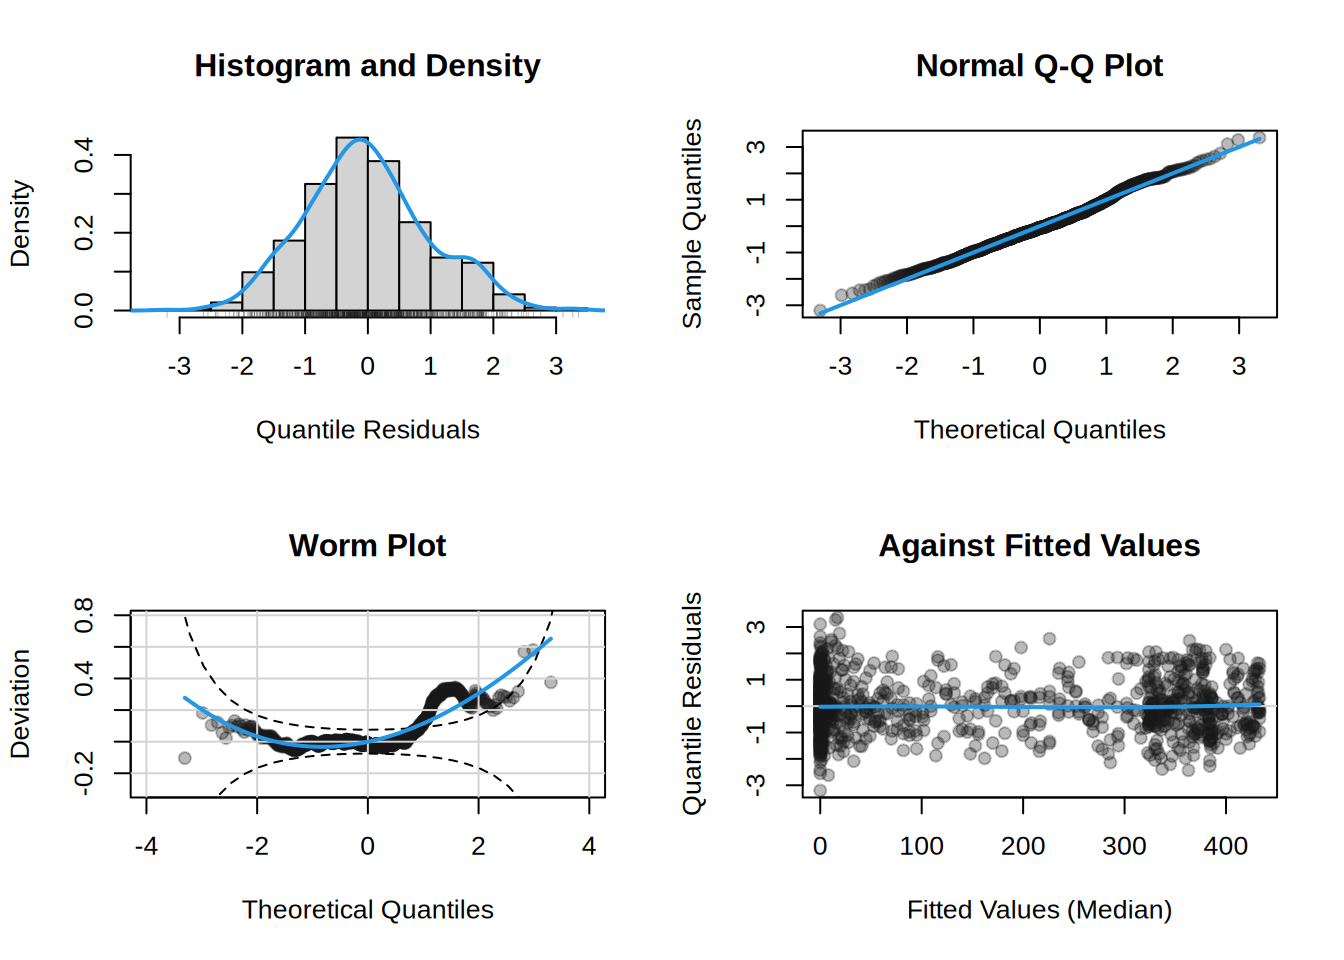
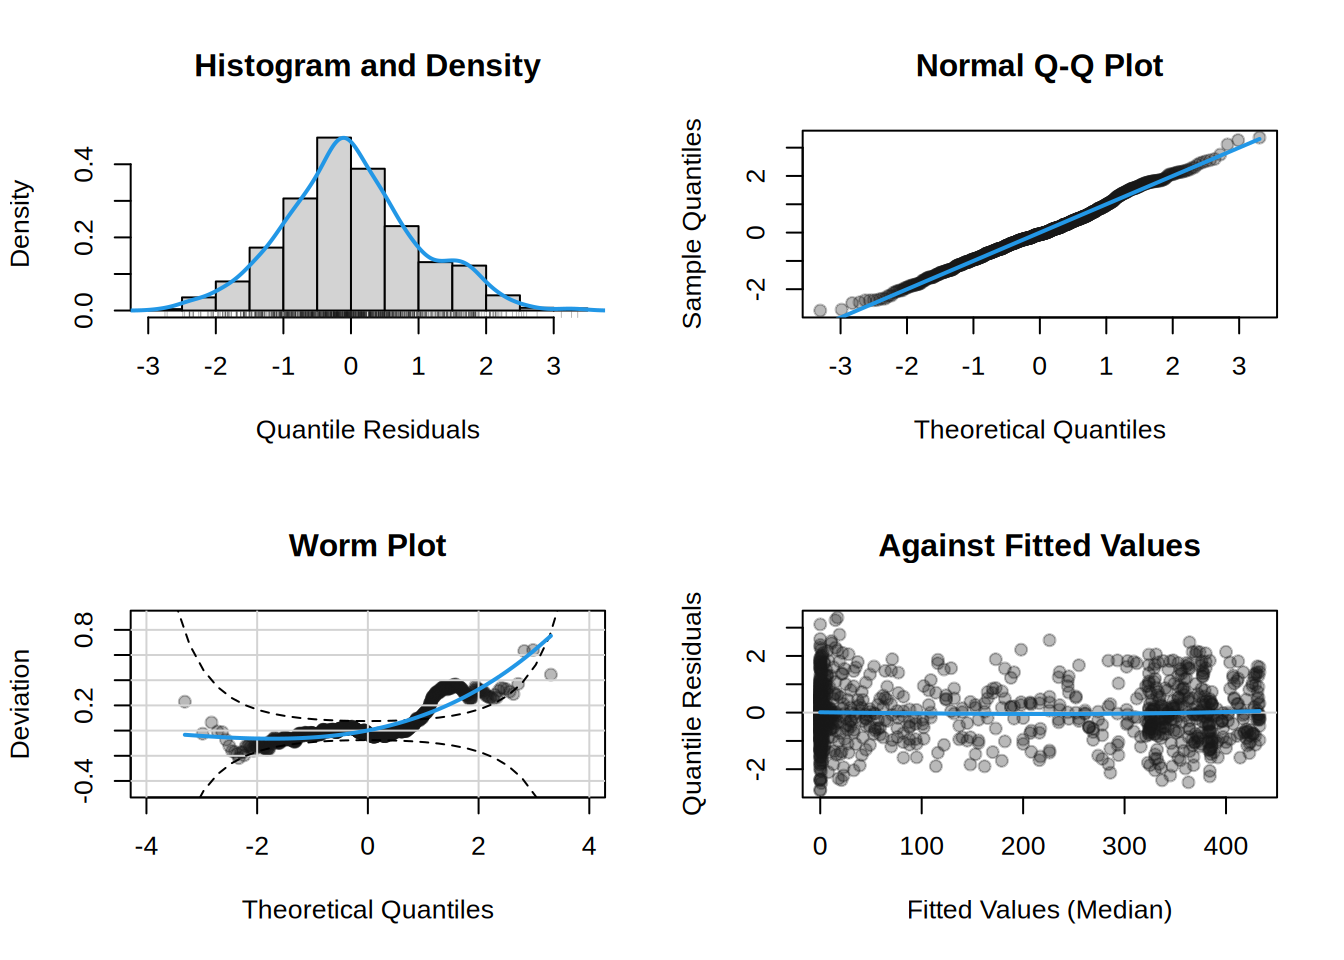
Deploying to gh-pages from @ gamlss-dev/gamlss2@0cd8d8fc662a4790c5f537b889903cefb4e990dd 🚀

diff --git a/man/prodist.gamlss2.html b/man/prodist.gamlss2.html
@@ -666,10 +666,10 @@ GAMLSS-RS iteration  2: Global Deviance = 405.7368 eps = 0.000000     </code></p
 <div class="code-copy-outer-scaffold"><div class="sourceCode cell-code" id="cb16"><pre class="sourceCode r code-with-copy"><code class="sourceCode r"><span id="cb16-1"><a href="#cb16-1" aria-hidden="true" tabindex="-1"></a><span class="do">## simulate random numbers</span></span>
 <span id="cb16-2"><a href="#cb16-2" aria-hidden="true" tabindex="-1"></a><span class="fu">random</span>(d, <span class="dv">5</span>)</span></code></pre></div><button title="Copy to Clipboard" class="code-copy-button"><i class="bi"></i></button></div>
 <div class="cell-output cell-output-stdout">
-<pre><code>        r_1       r_2      r_3      r_4      r_5
-1  22.48938  23.88548 21.89904 23.30117 18.35911
-2  83.74819  63.56526 76.68228 67.23161 55.47173
-3 112.92604 134.28998 69.26885 65.53555 28.72339</code></pre>
+<pre><code>       r_1      r_2      r_3       r_4       r_5
[phone redacted].95017 21.41169  8.654414  16.89419
[phone redacted].67335 74.64675 20.270523  47.10331
[phone redacted].07195 53.84859 95.774799 118.32093</code></pre>
 </div>
 <div class="code-copy-outer-scaffold"><div class="sourceCode cell-code" id="cb18"><pre class="sourceCode r code-with-copy"><code class="sourceCode r"><span id="cb18-1"><a href="#cb18-1" aria-hidden="true" tabindex="-1"></a><span class="do">## density and distribution</span></span>
 <span id="cb18-2"><a href="#cb18-2" aria-hidden="true" tabindex="-1"></a><span class="fu">pdf</span>(d, <span class="dv">50</span> <span class="sc">*</span> <span class="sc">-</span><span class="dv">2</span><span class="sc">:</span><span class="dv">2</span>)</span></code></pre></div><button title="Copy to Clipboard" class="code-copy-button"><i class="bi"></i></button></div>

diff --git a/man/gamlss2.html b/man/gamlss2.html
@@ -732,7 +732,7 @@ edf  4.5885     2.6274
 *--------
 n = 610 df =  11.22 res.df =  598.78
 Deviance = 4772.1489 Null Dev. Red. = 33.37%
-AIC = 4794.5805 elapsed =  0.83sec</code></pre>
+AIC = 4794.5805 elapsed =  0.91sec</code></pre>
 </div>
 <div class="code-copy-outer-scaffold"><div class="sourceCode cell-code" id="cb5"><pre class="sourceCode r code-with-copy"><code class="sourceCode r"><span id="cb5-1"><a href="#cb5-1" aria-hidden="true" tabindex="-1"></a><span class="do">## plot parameter-specific effects</span></span>
 <span id="cb5-2"><a href="#cb5-2" aria-hidden="true" tabindex="-1"></a><span class="fu">plot</span>(m1, <span class="at">which =</span> <span class="st">"effects"</span>)</span></code></pre></div><button title="Copy to Clipboard" class="code-copy-button"><i class="bi"></i></button></div>
@@ -807,7 +807,7 @@ edf     6.3823        6.2095
 *--------
 n = 1057 df =  14.59 res.df =  1042.41
 Deviance = 10150.8818 Null Dev. Red. = 12.62%
-AIC = 10180.0654 elapsed =  0.26sec</code></pre>
+AIC = 10180.0654 elapsed =  0.30sec</code></pre>
 </div>
 <div class="code-copy-outer-scaffold"><div class="sourceCode cell-code" id="cb12"><pre class="sourceCode r code-with-copy"><code class="sourceCode r"><span id="cb12-1"><a href="#cb12-1" aria-hidden="true" tabindex="-1"></a><span class="do">## effect plots</span></span>
 <span id="cb12-2"><a href="#cb12-2" aria-hidden="true" tabindex="-1"></a><span class="fu">plot</span>(m2)</span></code></pre></div><button title="Copy to Clipboard" class="code-copy-button"><i class="bi"></i></button></div>